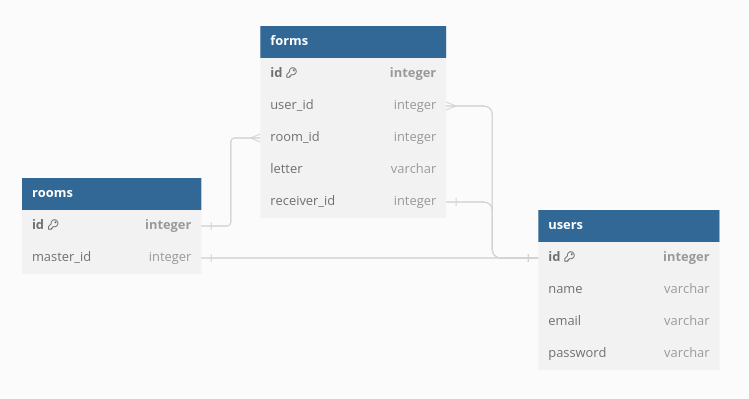
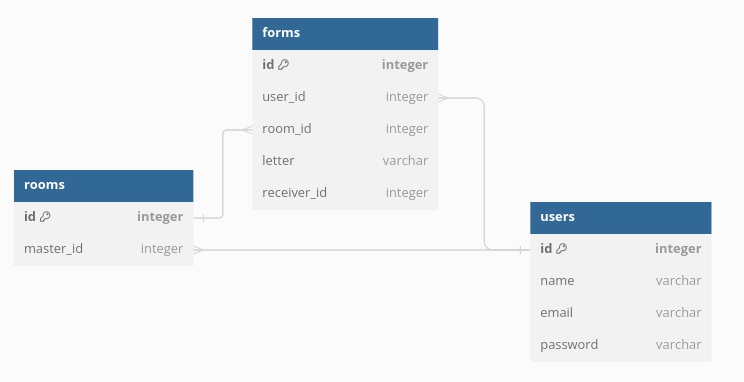
update relation

diff --git a/src/main/java/com/example/secretsanta/model/Form.java b/src/main/java/com/example/secretsanta/model/Form.java
@@ -7,7 +7,6 @@ import jakarta.persistence.GenerationType;
 import jakarta.persistence.Id;
 import jakarta.persistence.JoinColumn;
 import jakarta.persistence.ManyToOne;
-import jakarta.persistence.OneToOne;
 import jakarta.persistence.Table;
 
 @Entity
@@ -28,7 +27,7 @@ public class Form {
     @Column(name = "letter")
     private String letter;
 
-    @OneToOne
+    @ManyToOne
     @JoinColumn(name = "receiver_id")
     private User receiver;
 }

diff --git a/src/main/java/com/example/secretsanta/model/User.java b/src/main/java/com/example/secretsanta/model/User.java
@@ -32,7 +32,7 @@ public class User {
     @OneToMany(mappedBy = "user")
     private List<Form> forms;
 
-    @OneToOne(mappedBy = "master")
+    @OneToMany(mappedBy = "master")
     private Room masterRoom;
 
     @OneToOne(mappedBy = "receiver")
